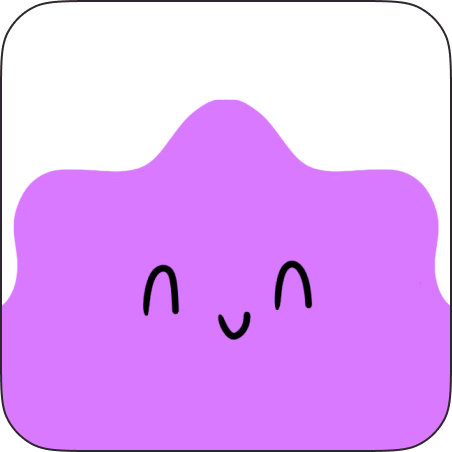
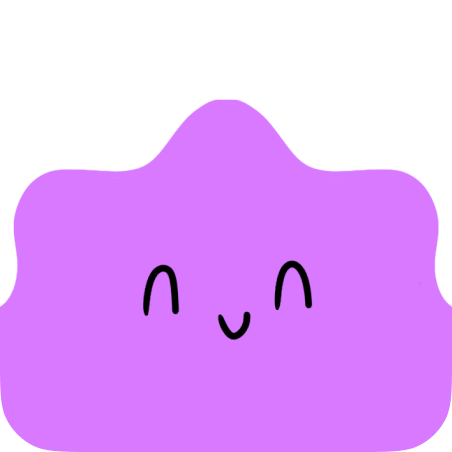
added placeholder profile pictures

diff --git a/app/creator-profile/page.js b/app/creator-profile/page.js
@@ -161,7 +161,7 @@ function page() {
                   src={
                     getUserInfoData?.ProfileLink
                       ? getUserInfoData?.ProfileLink
-                      : "/dummy-profile.jpg"
+                      : "/dummy-creator.png"
                   }
                   width={194}
                   height={194}

diff --git a/app/student-profile/page.js b/app/student-profile/page.js
@@ -159,7 +159,7 @@ function page() {
                   src={
                     getUserInfoData?.ProfileLink
                       ? getUserInfoData?.ProfileLink
-                      : "/dummy-profile.jpg"
+                      : "/dummy-student.png"
                   }
                   width={194}
                   height={194}

diff --git a/app/public-profile/[id]/page.js b/app/public-profile/[id]/page.js
@@ -41,7 +41,7 @@ function page() {
                   src={
                     getUserInfoData?.ProfileLink
                       ? getUserInfoData?.ProfileLink
-                      : "/dummy-profile.jpg"
+                      : "/dummy-creator.png"
                   }
                   width={194}
                   height={194}

diff --git a/app/brand-profile/page.js b/app/brand-profile/page.js
@@ -186,7 +186,7 @@ function page() {
                   src={
                     getUserInfoData?.ProfileLink
                       ? getUserInfoData?.ProfileLink
-                      : "/dummy-profile.jpg"
+                      : "/dummy-brand.png"
                   }
                   alt=""
                   width={194}
